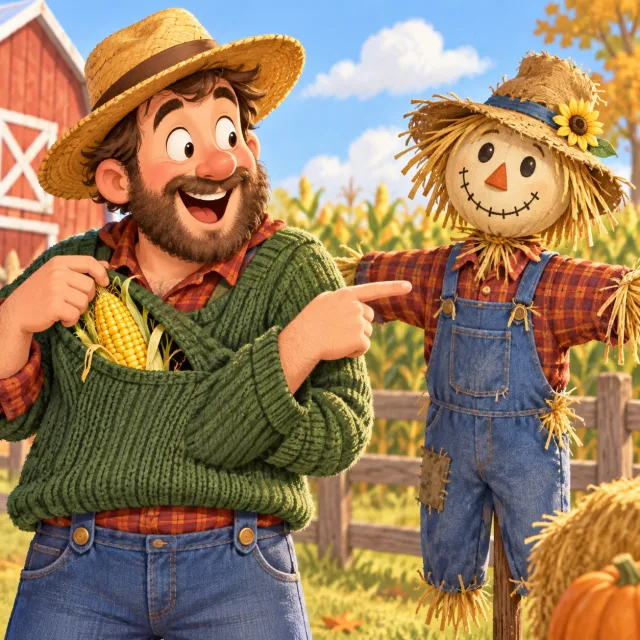
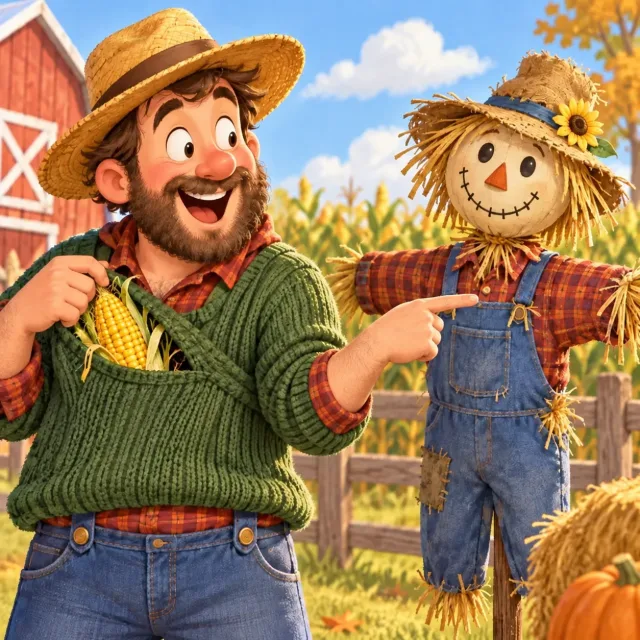
Add sentence search and fix practice content

diff --git a/index.html b/index.html
@@ -42,6 +42,95 @@
       font-size: 1rem;
     }
 
+    .sentence-search {
+      width: min(520px, 100%);
+      margin: -14px auto 22px;
+      color: #5d6678;
+      font-size: 0.9rem;
+    }
+
+    .sentence-search summary {
+      display: inline-block;
+      padding: 5px 8px;
+      border-radius: 7px;
+      cursor: pointer;
+      list-style: none;
+      user-select: none;
+    }
+
+    .sentence-search summary::-webkit-details-marker {
+      display: none;
+    }
+
+    .sentence-search summary::before {
+      content: "⌕";
+      margin-right: 6px;
+      font-size: 1.05em;
+    }
+
+    .sentence-search summary:hover,
+    .sentence-search[open] summary {
+      color: #3659b5;
+      background: #edf1fb;
+    }
+
+    .sentence-search summary:focus-visible,
+    #sentence-search-input:focus-visible,
+    .search-result:focus-visible {
+      outline: 3px solid #f5a623;
+      outline-offset: 2px;
+    }
+
+    .search-panel {
+      margin-top: 8px;
+      padding: 10px;
+      border: 1px solid #d8d4ca;
+      border-radius: 12px;
+      background: #fff;
+      box-shadow: 0 8px 24px rgba(36, 43, 63, 0.08);
+    }
+
+    #sentence-search-input {
+      width: 100%;
+      padding: 10px 12px;
+      border: 1px solid #c9c5bb;
+      border-radius: 8px;
+      color: #17233f;
+      background: #fff;
+      font: inherit;
+    }
+
+    .search-status {
+      margin: 7px 3px 0;
+      text-align: left;
+      font-size: 0.78rem;
+    }
+
+    .search-results {
+      display: grid;
+      gap: 4px;
+      max-height: 230px;
+      margin-top: 7px;
+      overflow-y: auto;
+    }
+
+    .search-result {
+      width: 100%;
+      padding: 8px 10px;
+      border: 0;
+      border-radius: 7px;
+      color: #26324d;
+      background: transparent;
+      font: inherit;
+      line-height: 1.3;
+      text-align: left;
+      cursor: pointer;
+    }
+
+    .search-result:hover {
+      background: #f4f6fb;
+    }
+
     fieldset {
       margin: 0 auto 22px;
       padding: 0;
@@ -318,13 +407,23 @@
     <h1>Say R!</h1>
     <p class="subtitle">Read the silly sentence out loud.</p>
 
+    <details class="sentence-search" id="sentence-search">
+      <summary>Find a sentence</summary>
+      <div class="search-panel">
+        <label for="sentence-search-input">Search all sentences</label>
+        <input id="sentence-search-input" type="search" autocomplete="off" placeholder="Try squirrel, cereal, or fire">
+        <p class="search-status" id="search-status" aria-live="polite">Type a word or phrase.</p>
+        <div class="search-results" id="search-results"></div>
+      </div>
+    </details>
+
     <fieldset>
       <legend>Difficulty</legend>
       <div class="difficulty-options">
-        <input type="radio" name="difficulty" id="easy" value="easy">
+        <input type="radio" name="difficulty" id="easy" value="easy" checked>
         <label for="easy">Easy</label>
 
-        <input type="radio" name="difficulty" id="mixed" value="mixed" checked>
+        <input type="radio" name="difficulty" id="mixed" value="mixed">
         <label for="mixed">Mixed</label>
 
         <input type="radio" name="difficulty" id="hard" value="hard">
@@ -415,7 +514,7 @@
         "A *mermaid* *wore* a *square* hat on the *pier*, and a fashion *reporter* called it *perfect*.",
         "The *bearded* *dinosaur* *shared* a *pear* with my *sister*, then ate the *silverware*.",
         "A *tired* *bear* *heard* a *bird* by the *barn* and *ordered* fluffy *earplugs*.",
-        "The *surfer* found a *hair* in his *burger* at the *park* and asked *for* its *manager*.",
+        "The *surfer* found a *hair* in his *burger* at the *park* and asked *for* the *manager*.",
         "A *purple* *horse* *admired* a *star* at *dinner* until *dessert* *arrived*.",
         "The *vampire* *served* *popcorn* to the *teacher* at the *shore* *during* sunrise.",
         "A *scary fairy* *steered* a *cart* through the *park* *toward* a *purple carousel*.",
@@ -702,6 +801,10 @@
     const favoritesOnlyToggle = document.querySelector("#favorites-only-toggle");
     const favoriteCount = document.querySelector("#favorite-count");
     const highlightToggle = document.querySelector("#highlight-toggle");
+    const searchDetails = document.querySelector("#sentence-search");
+    const searchInput = document.querySelector("#sentence-search-input");
+    const searchStatus = document.querySelector("#search-status");
+    const searchResults = document.querySelector("#search-results");
     const difficultyInputs = document.querySelectorAll('input[name="difficulty"]');
     const decks = { easy: [], mixed: [], hard: [] };
     const lastShown = { easy: null, mixed: null, hard: null };
@@ -715,7 +818,15 @@
     let illustrationDeck = [];
     let lastIllustration = null;
     const favoriteStorageKey = "say-r-favorites-v1";
+    const difficultyStorageKey = "say-r-difficulty-v1";
     const availableSentences = new Set(Object.values(sentences).flat());
+    const searchableSentences = Object.entries(sentences).flatMap(([difficulty, entries]) =>
+      entries.map((sentence) => ({
+        difficulty,
+        sentence,
+        plainText: sentence.replaceAll("*", "")
+      }))
+    );
     let favorites = loadFavorites();
     let favoriteDeck = [];
     let lastFavorite = null;
@@ -762,6 +873,23 @@
         localStorage.setItem(favoriteStorageKey, JSON.stringify([...favorites]));
       } catch {
         // Favorites still work for this visit if browser storage is unavailable.
+      }
+    }
+
+    function loadDifficulty() {
+      try {
+        const saved = localStorage.getItem(difficultyStorageKey);
+        return ["easy", "mixed", "hard"].includes(saved) ? saved : "easy";
+      } catch {
+        return "easy";
+      }
+    }
+
+    function saveDifficulty(difficulty) {
+      try {
+        localStorage.setItem(difficultyStorageKey, difficulty);
+      } catch {
+        // The selected difficulty still works for this visit if storage is unavailable.
       }
     }
 
@@ -833,17 +961,60 @@
       return document.querySelector('input[name="difficulty"]:checked').value;
     }
 
-    function showNewSentence() {
-      if (favoritesOnlyToggle.checked) {
-        currentSentence = nextFavoriteSentence();
-      } else if (picturesOnlyToggle.checked) {
-        currentSentence = nextPicturedSentence(selectedDifficulty());
-      } else {
-        currentSentence = nextSentence(selectedDifficulty());
-      }
+    function showSentence(sentence) {
+      currentSentence = sentence;
       sentenceElement.innerHTML = renderSentence(currentSentence);
       updateIllustration(currentSentence);
       updateFavoriteControls();
+    }
+
+    function showNewSentence() {
+      let sentence;
+      if (favoritesOnlyToggle.checked) {
+        sentence = nextFavoriteSentence();
+      } else if (picturesOnlyToggle.checked) {
+        sentence = nextPicturedSentence(selectedDifficulty());
+      } else {
+        sentence = nextSentence(selectedDifficulty());
+      }
+      showSentence(sentence);
+    }
+
+    function showSearchResult({ difficulty, sentence }) {
+      picturesOnlyToggle.checked = false;
+      favoritesOnlyToggle.checked = false;
+      difficultyInputs.forEach((input) => {
+        input.checked = input.value === difficulty;
+      });
+      saveDifficulty(difficulty);
+      showSentence(sentence);
+      searchDetails.open = false;
+    }
+
+    function updateSearchResults() {
+      const query = searchInput.value.trim().toLocaleLowerCase();
+      searchResults.replaceChildren();
+
+      if (query === "") {
+        searchStatus.textContent = "Type a word or phrase.";
+        return;
+      }
+
+      const matches = searchableSentences.filter(({ plainText }) =>
+        plainText.toLocaleLowerCase().includes(query)
+      );
+      searchStatus.textContent = matches.length === 1
+        ? "1 matching sentence."
+        : `${matches.length} matching sentences.`;
+
+      matches.slice(0, 8).forEach((match) => {
+        const button = document.createElement("button");
+        button.className = "search-result";
+        button.type = "button";
+        button.textContent = match.plainText;
+        button.addEventListener("click", () => showSearchResult(match));
+        searchResults.append(button);
+      });
     }
 
     function updateHighlighting() {
@@ -942,9 +1113,22 @@
       showNewSentence();
     });
     highlightToggle.addEventListener("change", updateHighlighting);
-    difficultyInputs.forEach((input) => input.addEventListener("change", showNewSentence));
+    searchInput.addEventListener("input", updateSearchResults);
+    searchDetails.addEventListener("toggle", () => {
+      if (searchDetails.open) {
+        searchInput.focus();
+      }
+    });
+    difficultyInputs.forEach((input) => input.addEventListener("change", () => {
+      saveDifficulty(input.value);
+      showNewSentence();
+    }));
 
     validateContent();
+    const savedDifficulty = loadDifficulty();
+    difficultyInputs.forEach((input) => {
+      input.checked = input.value === savedDifficulty;
+    });
     updateHighlighting();
     showNewSentence();
   </script>

diff --git a/IMAGE_GENERATION_NOTES.md b/IMAGE_GENERATION_NOTES.md
@@ -87,7 +87,7 @@ remain obvious in the final square.
 - `hamster-scarf-fair.webp` — “The nervous hamster wore a scarf to the fair because its tail felt bare.” Show the scarf wrapped around the hamster and its tail at a colorful fair.
 - `bird-vampire-campfire.webp` — “A bird stared at a vampire by the campfire until they both felt awkward.” Show the bird and child-friendly vampire exchanging an awkward stare across the fire.
 - `monster-storm-popcorn.webp` — “The furry monster snored through a stormy morning, waking the popcorn.” Show the sleeping monster and surprised, expressive popcorn during a rainstorm.
-- `surfer-hair-burger.webp` — “The surfer found a hair in his burger at the park and asked for its manager.” Show the surfer lifting the hair from a burger that wears a tiny manager's tie.
+- `surfer-hair-burger.webp` — “The surfer found a hair in his burger at the park and asked for the manager.” Show the surfer lifting the hair from the burger at a park food stand.
 - `purple-horse-star-dessert.webp` — “A purple horse admired a star at dinner until dessert arrived.” Show the horse, star, dinner setting, and spectacular dessert arriving on a cart.
 
 ### Hard

diff --git a/README.md b/README.md
@@ -57,6 +57,10 @@ the sentence's exact array entry.
 - **Pictures Only** cycles through mapped sentences at the selected difficulty.
 - Normal mode can show any sentence. An unpictured sentence receives a random
   illustration, so it must not be mistaken for an exact visual match.
+- **Find a sentence** expands into a small search across all three difficulty
+  levels and opens the selected result at its correct difficulty.
+- Easy is the first-run default, and the last selected difficulty is restored
+  after a refresh.
 - **Favorites only** uses the browser's local storage. Editing a sentence
   changes its stored identity, so an old favorite may disappear.
 - **Highlight R words** only changes presentation; it does not change the deck.
